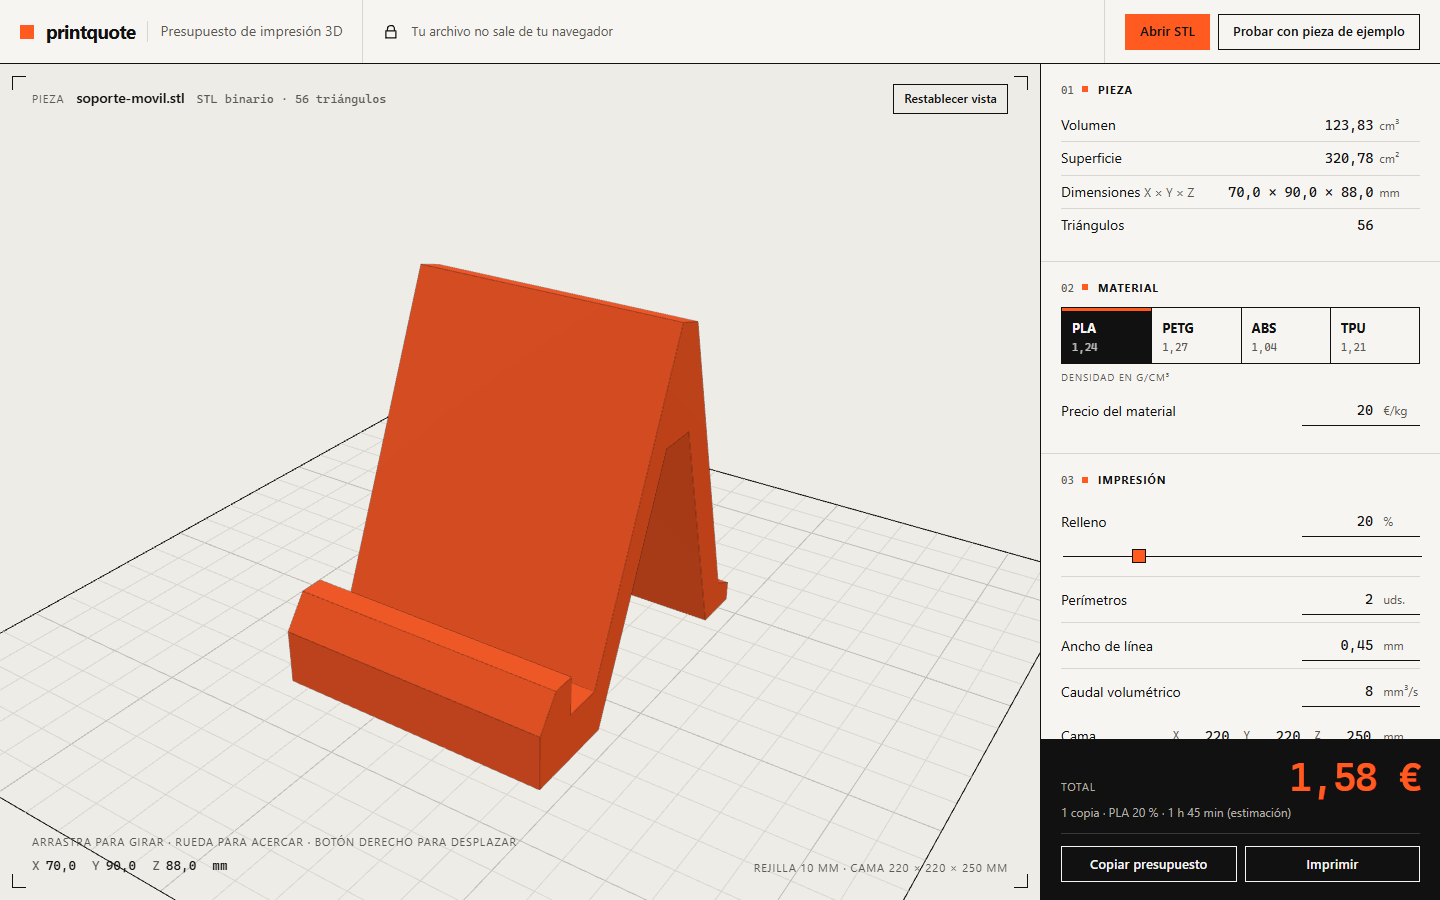
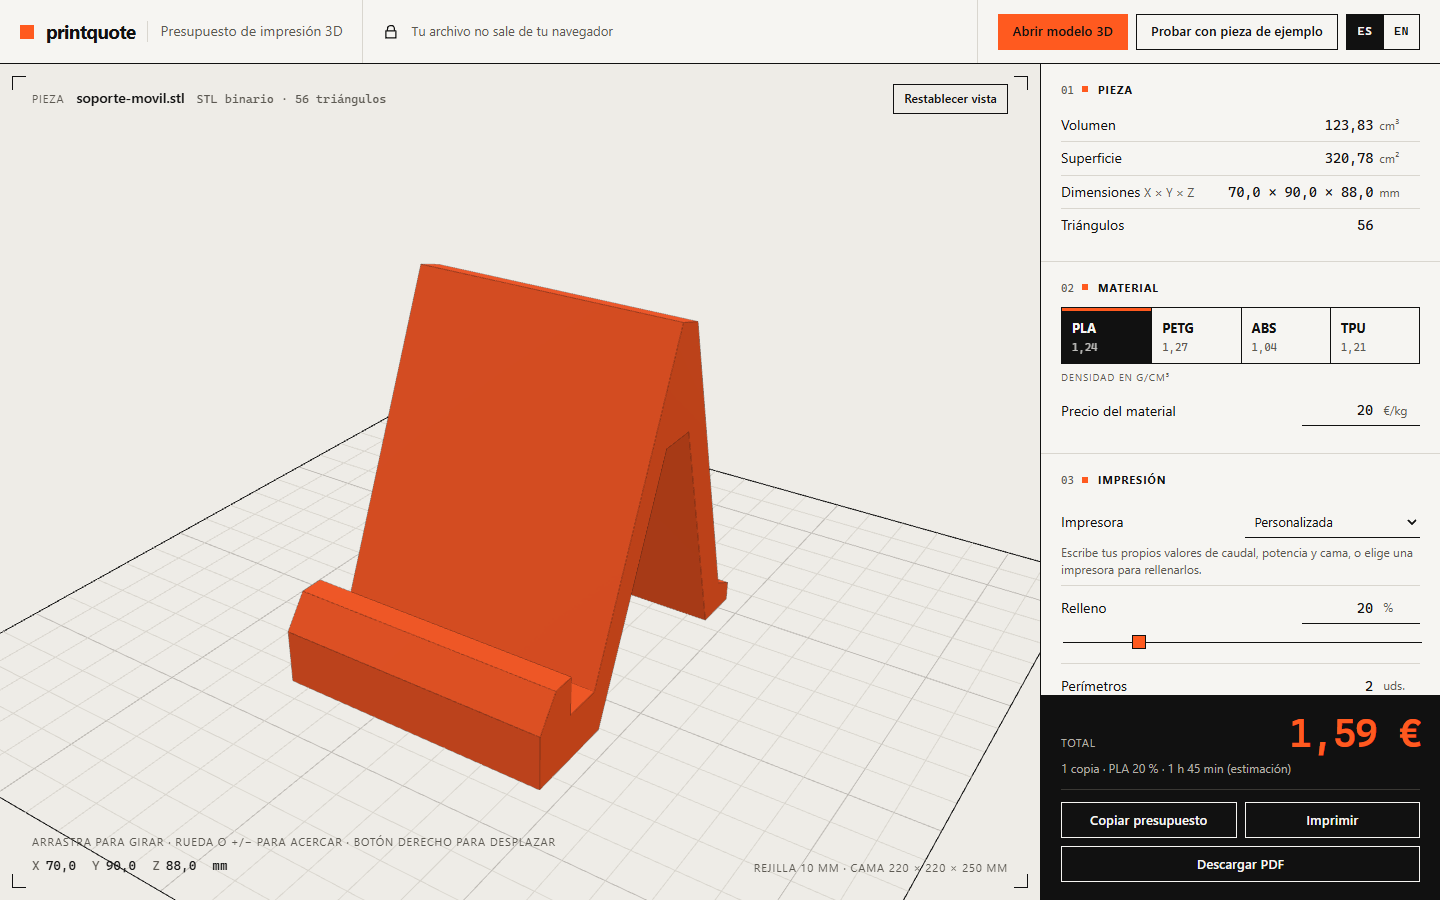
docs: captura y vista previa con la interfaz de v0.2 (#22)
docs/captura.png y public/og.png se regeneran con la pieza de ejemplo
(selector de idioma, «Abrir modelo 3D», perfil de impresora y «Descargar
PDF»). scripts/captura.mjs las genera con Chrome o Edge headless.

Agente: agent-project-1 (Claude Code · Sonnet)

diff --git a/MEMORY.md b/MEMORY.md
@@ -1,5 +1,5 @@
 # MEMORY.md · printquote
-Última actualización: 2026-09-30 por builder (v0.3.0, #21)
+Última actualización: 2026-09-30 por builder (v0.3.0, #22)
 
 ## Estado actual
 
@@ -9,7 +9,7 @@
 - #19 Aviso OBJ de más de 200 vértices (rama `agent/builder/19-aviso-obj`): hecho, ver abajo.
 - #20 Tope de triángulos en 3MF (rama `agent/builder/20-tope-3mf`): hecho, ver abajo.
 - #21 Zoom con teclado (rama `agent/builder/21-zoom-teclado`): hecho, ver abajo.
-- #22: pendiente.
+- #22 Captura del README (rama `agent/builder/22-captura-readme`): hecho, ver abajo.
 
 **#17 PDF con fuente incrustada.** `src/pdf/fonts.ts` (`loadFonts`: `fetch` de cuatro `.ttf` con `new URL(…, import.meta.url)`, que Vite emite como recursos aparte), `src/pdf/fonts/` (las cuatro fuentes y las licencias OFL) y `render.ts` (`pdf.registerFontkit(fontkit)`, `embedFont(bytes, { subset: true })`; `renderQuotePdf(doc, fontBytes?)` acepta las fuentes ya cargadas, que es como lo prueban los tests). La transcripción sin marcas (ǎ → a) y el «?» final siguen para lo que las fuentes no cubren. Los tests leen el texto del PDF con la tabla ToUnicode (`tests/helpers/pdf-text.ts`): el PDF ya no lleva cadenas WinAnsi sino identificadores de glifo.
 
@@ -20,6 +20,8 @@
 **#20 Tope de triángulos en 3MF.** `MAX_3MF_TRIANGLES` = 6 000 000 en `threemf.ts` (exportado): se acumulan los triángulos de cada instancia al recorrer la plantilla (`visit`) y, al pasar el tope, `ModelParseError('err.3mf.tooManyTriangles', { millions: 6 })` (es/en) **antes** de reservar el `Float32Array` (216 MB a 36 B por triángulo). Por qué 6 M: es lo que cabe en un STL de 300 MB (50 B por triángulo), el límite de archivo de la interfaz, así que los tres formatos tienen el mismo orden de magnitud. El test construye un 3MF sintético con 500 001 `item` de un cubo (6 000 012 triángulos) sin construir esa malla. Límite conocido: un árbol de componentes vacíos (sin triángulos) no suma y no se corta por este tope, solo por la profundidad máxima (32).
 
 **#21 Zoom con teclado.** `src/viewer/zoom.ts` (puro, sin three.js, testeado en `tests/zoom.test.ts`): `keyZoomFactor(evento)` da 1/1,15 para `+` y `=`, 1,15 para `-` y `_`, y `null` con Ctrl/Cmd/Alt (zoom de la página, atajos del sistema) o cualquier otra tecla. `Viewer` escucha `keydown` en el contenedor (que ya es enfocable) y mueve la cámara sobre la línea al objetivo; `controls.update()` la limita a `minDistance`/`maxDistance` y dispara el repintado. Sin animación: el cambio es inmediato, así que `prefers-reduced-motion` se respeta por construcción (la rueda tampoco se anima). La pista visible pasa a «rueda o +/− para acercar» y la etiqueta accesible del visor (`viewer.label`) menciona Más y Menos. Comprobado en el navegador enviando `keydown` sintéticos: 4 × `-` aleja, 30 × `+` llega al mínimo, Ctrl + `-` no se toca. (Las teclas enviadas por la herramienta del navegador llegan sin `key`, por eso no se usaron.)
+
+**#22 Capturas.** `docs/captura.png` (1440 × 1200: ficha completa con el perfil Bambu Lab A1 elegido, cama 256 × 256 × 256 y 1,57 €) y `public/og.png` (1440 × 900: primera pantalla tras «Probar con pieza de ejemplo», 1,59 €), ambas con la interfaz de v0.2 en español y tema claro. Las genera `scripts/captura.mjs` (Chrome/Edge headless manejado por el protocolo DevTools con el `WebSocket` de Node 24, sin dependencias nuevas): abre `http://localhost:5173/printquote/#ejemplo`, espera a que haya pieza y visor, fija el idioma y el perfil, y captura. Por qué dos imágenes y no una copia como antes: la ficha completa (con el selector de impresora) no cabe en 900 px de alto y la vista previa social conviene que sea apaisada y limpia. El bloque «Datos del negocio» queda fuera de la captura (está al final de la ficha, que se desplaza). Las capturas salen con WebGL por software (`swiftshader`), por eso los bordes del visor pueden diferir ligeramente de los de una GPU real. README y `docs/USO.md` ya las enlazan con el mismo nombre; no hizo falta tocar `index.html` (las URL y el texto alternativo de `og:image` siguen siendo válidos).
 
 ### v0.2.0 (fusionado en `main`, PR #11 a #16)
 Una rama y un PR por issue, cada rama parte de la anterior y todos van contra `main`:
@@ -49,7 +51,7 @@ Una rama y un PR por issue, cada rama parte de la anterior y todos van contra `m
 - `CHANGELOG.md` nuevo (Keep a Changelog, en español): [0.2.0] y [0.1.0], ambos con fecha 2026-09-30, y enlaces de comparación (las etiquetas `v0.1.0` y `v0.2.0` aún no existen: los crea Alberto al publicar).
 - `docs/USO.md`: sección 3 «Abrir un modelo 3D (STL, OBJ y 3MF)» (detección por contenido, unidades del 3MF, tabla de qué da error), «Impresora (perfiles)» dentro de la sección 7, sección 10 ampliada con datos del negocio y PDF (IVA, numeración, logotipo, límites), sección 14 «Cambiar el idioma» y preguntas frecuentes nuevas (la antigua 14 pasa a ser la 15). Cifras comprobadas contra el código (perfiles contra `printers.ts`; IVA: 1,59 € al 21 % → 0,33 € y 1,92 €).
 - `README.md`: enlace al CHANGELOG, guía de uso ampliada, límites del PDF, OBJ con caras cóncavas trianguladas y «Cómo se ha hecho» exacto. `CONTRIBUTING.md`: cómo añadir un perfil de impresora, una clave de traducción (y el test que la vigila, `tests/i18n.test.ts`) y un formato de archivo; el CHANGELOG entra en el flujo de PR.
-- No se ha regenerado `docs/captura.png` (muestra la interfaz de la v0.1.0, sin selector de impresora ni bloque de datos del negocio): pendiente si se quiere.
+- `docs/captura.png` se regeneró en v0.3.0 (#22).
 
 ### MVP y revisiones anteriores (v0.1.0)
 MVP completo en la rama `agent/builder` (PR abierto a `main`, pendiente de revisión del lead):
@@ -140,7 +142,7 @@ Documentación en la rama `agent/docs` (PR contra `agent/qa`, se fusiona despué
 - Modelo de coste simplificado: no incluye soportes, balsa ni purga; la cáscara (área × grosor) sobreestima en piezas muy detalladas.
 - Los OBJ y 3MF no se han probado con archivos reales de laminadores (solo con los construidos en los tests y una prueba manual en Chrome).
 - PDF: una página; sin campo de cliente. Revisar el PDF impreso/abierto en distintos visores (solo se ha comprobado renderizado con PyMuPDF y la descarga en Chrome).
-- Las notas de impresora y demás textos están traducidos, pero `docs/USO.md` y el README siguen solo en español (documentación); los meta Open Graph del HTML servido también (en el navegador sí cambian). `docs/captura.png` muestra la interfaz de la v0.1.0.
+- Las notas de impresora y demás textos están traducidos, pero `docs/USO.md` y el README siguen solo en español (documentación); los meta Open Graph del HTML servido también (en el navegador sí cambian). `docs/captura.png` y `public/og.png` se regeneraron con la interfaz de v0.2 (#22).
 - El bloque del emisor del PDF se recorta a 10 líneas por el final: una dirección muy larga puede tapar teléfono, correo y web (está documentado en `docs/USO.md`).
 - Mallas muy grandes (> 400 000 triángulos) no dibujan las aristas marcadas, por rendimiento. Con mallas grandes (< 400 000) el `EdgesGeometry` y las normales del visor se calculan aún en el hilo principal (unos cientos de ms de bloqueo tras la lectura).
 - Si falla la lectura de un archivo, se mantiene la pieza anterior en pantalla junto al aviso de error (intencionado, pero puede confundir).
@@ -163,3 +165,4 @@ Documentación en la rama `agent/docs` (PR contra `agent/qa`, se fusiona despué
 - 2026-09-30 builder · Claude Code Sonnet (agent/builder/19-aviso-obj): #19 aviso de OBJ con polígonos de más de 200 vértices (contador en el parser, `big-polygons`, textos es/en, tests, docs).
 - 2026-09-30 builder · Claude Code Sonnet (agent/builder/20-tope-3mf): #20 tope de 6 millones de triángulos en 3MF con error traducido y test sintético.
 - 2026-09-30 builder · Claude Code Sonnet (agent/builder/21-zoom-teclado): #21 zoom con teclado en el visor (`zoom.ts`, listener en `Viewer`, pista y etiqueta accesible, tests, docs).
+- 2026-09-30 builder · Claude Code Sonnet (agent/builder/22-captura-readme): #22 capturas nuevas de README y Open Graph con `scripts/captura.mjs` (Chrome headless), CONTRIBUTING al día con #17 a #22.

diff --git a/CONTRIBUTING.md b/CONTRIBUTING.md
@@ -25,6 +25,7 @@ npm run dev        # http://localhost:5173/printquote/
 | `npm run build` | Comprueba tipos y genera la web estática en `dist/`. |
 | `npm run preview` | Sirve `dist/` en <http://localhost:4173/printquote/>. |
 | `npm run sample` | Regenera la pieza de ejemplo `public/samples/soporte-movil.stl`. |
+| `node scripts/captura.mjs` | Regenera `docs/captura.png` y `public/og.png` con Chrome o Edge headless (con `npm run dev` en marcha). Ejecútalo cuando cambie la interfaz. |
 
 Antes de abrir un PR: `npm run lint && npm test && npm run build` en verde. El CI lo repite en Ubuntu y Windows.
 
@@ -58,10 +59,10 @@ La interfaz está en español e inglés y la documentación, en español; los no
 | Perfiles de impresora | `src/quote/printers.ts` | `tests/printers.test.ts` |
 | Lectura de OBJ y 3MF (ZIP y XML a mano) | `src/stl/obj.ts`, `src/stl/threemf.ts`, `src/stl/zip.ts`, `src/stl/xml.ts`, `src/stl/model.ts` | `tests/obj.test.ts`, `tests/threemf.test.ts`, `tests/zip.test.ts` |
 | IVA y datos del negocio | `src/quote/tax.ts`, `src/quote/business.ts` | `tests/pdf.test.ts`, `tests/pdf-ui.test.ts` |
-| Presupuesto en PDF (contenido puro y dibujo con pdf-lib) | `src/pdf/` | `tests/pdf.test.ts` |
+| Presupuesto en PDF (contenido puro y dibujo con pdf-lib; fuentes Noto Sans y JetBrains Mono incrustadas, con su licencia, en `src/pdf/fonts/`) | `src/pdf/` | `tests/pdf.test.ts` (el texto del PDF se lee con `tests/helpers/pdf-text.ts`) |
 | Texto para copiar | `src/quote/text.ts` | `tests/format.test.ts` |
 | Interfaz, campos, hoja de impresión | `index.html`, `src/ui/`, `src/styles.css` | `tests/ui.test.ts` (carga el `index.html` real con happy-dom), `tests/meta.test.ts` |
-| Visor three.js | `src/viewer/` | a mano en el navegador (`npm run dev`) |
+| Visor three.js (la lógica del zoom con teclado está aparte, en `zoom.ts`) | `src/viewer/` | `tests/zoom.test.ts`; el resto, a mano en el navegador (`npm run dev`) |
 
 ### Textos e idiomas
 

diff --git a/CHANGELOG.md b/CHANGELOG.md
@@ -6,6 +6,7 @@ Todos los cambios relevantes de printquote se anotan aquí. El formato sigue [Ke
 
 ### Añadido
 
+- **Capturas nuevas** (#22): `docs/captura.png` y `public/og.png` (vista previa al compartir el enlace) muestran la interfaz de v0.2 con la pieza de ejemplo: selector de idioma, «Abrir modelo 3D», perfil de impresora y botón «Descargar PDF». `scripts/captura.mjs` las regenera con Chrome o Edge headless.
 - **Zoom con teclado en el visor** (#21): con el visor enfocado, `+` (o `=`) acerca y `-` (o `_`) aleja un 15 % por pulsación, sin animación (respeta `prefers-reduced-motion`). Indicado en la pista de controles y en la etiqueta accesible del visor.
 - **Tope de triángulos en 3MF** (#20): un 3MF con más de 6 millones de triángulos en total (contando cada instancia y copia) da un error claro y traducido en lugar de un `RangeError` genérico. El límite se comprueba durante la lectura, antes de reservar la memoria.
 - **Aviso de polígonos OBJ muy grandes** (#19): si un OBJ trae caras de más de 200 vértices (que se triangulan en abanico aunque sean cóncavas) se avisa en la lista de avisos, en español e inglés, con el número de caras.

diff --git a/README.md b/README.md
@@ -8,7 +8,7 @@
 
 **Demo:** <https://bertmarti.github.io/printquote/> · [abrir con la pieza de ejemplo](https://bertmarti.github.io/printquote/#ejemplo)
 
-![printquote: visor 3D a la izquierda con un soporte de móvil naranja sobre la rejilla de la cama y, a la derecha, la ficha técnica con el presupuesto](docs/captura.png)
+![printquote: visor 3D a la izquierda con un soporte de móvil naranja sobre la rejilla de la cama y, a la derecha, la ficha técnica con el perfil de impresora y el presupuesto](docs/captura.png)
 
 ## Qué hace
 
